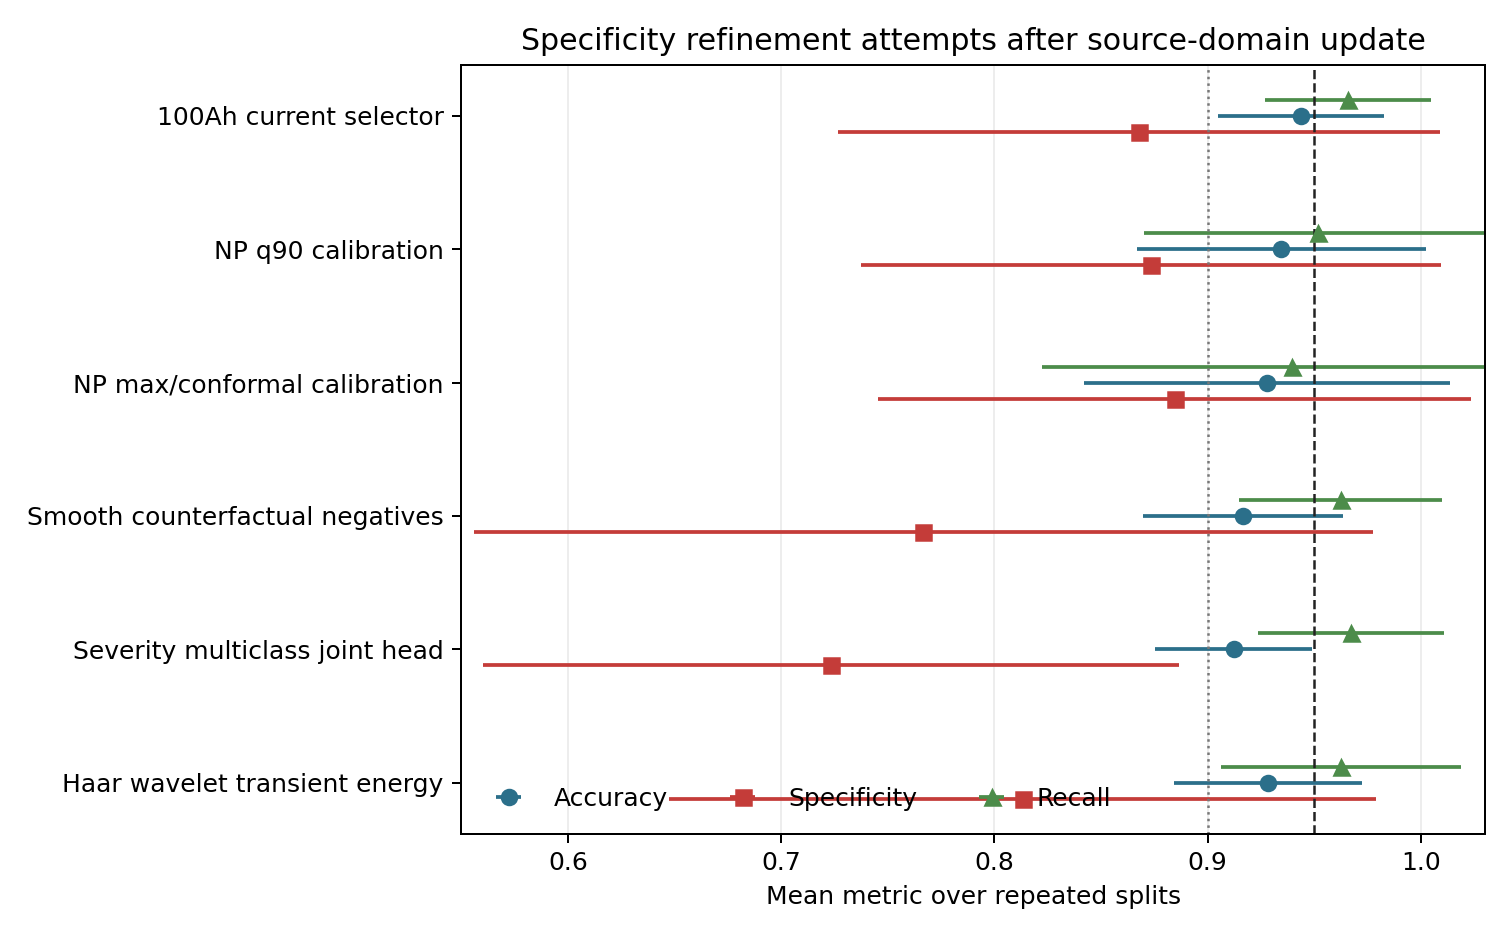
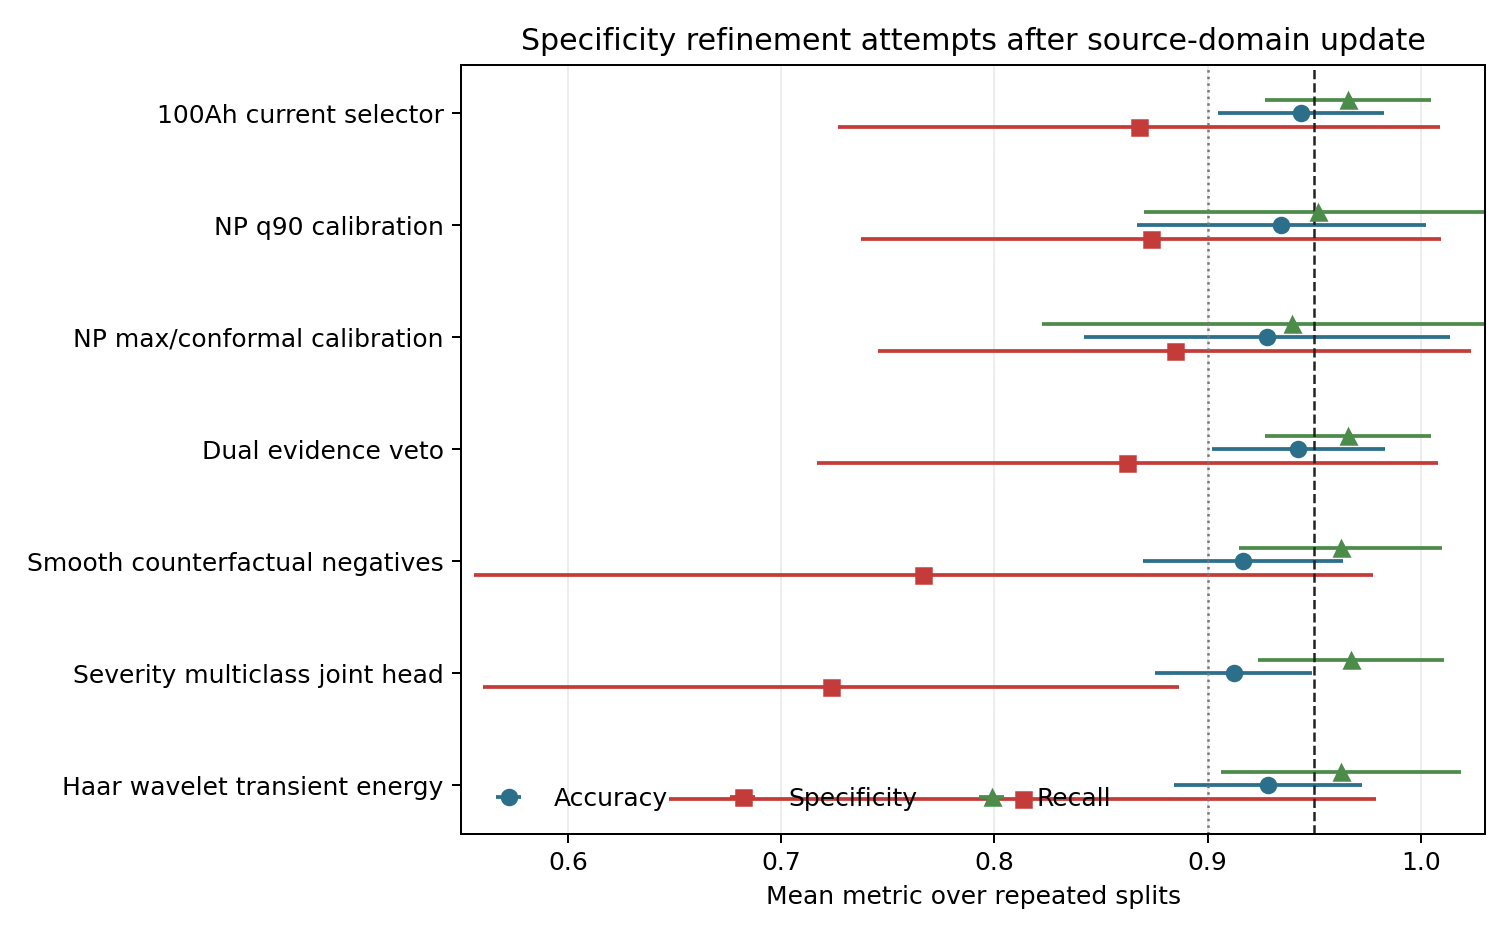
Add dual evidence veto audit

diff --git a/code/ablation_and_audit/dual_evidence_veto_eval.py b/code/ablation_and_audit/dual_evidence_veto_eval.py
@@ -1,0 +1,251 @@
+from __future__ import annotations
+
+from pathlib import Path
+
+import numpy as np
+import pandas as pd
+from sklearn.metrics import confusion_matrix
+
+from repeated_seed_eval import duplicate_group_name, stratified_target_split
+from rescompact_normality_verifier_eval import (
+    HORIZONS,
+    SOURCES,
+    attach_scores,
+    feature_rows_for_ids,
+    fit_verifiers,
+    load_base_probabilities,
+    load_prefix_feature_long,
+    reconstruct_base,
+    rows_at_alarm,
+    target_meta_from_features,
+    verifier_scores,
+)
+
+
+ROOT = Path(r"C:\Users\wmy\Documents\Codex\2026-06-05\in-app-browser-the-user-has")
+OUT = ROOT / "outputs"
+WORK = ROOT / "work"
+MODEL_NAME = "DualEvidenceVeto_ValidationSelected"
+
+
+def target_meta_from_window() -> pd.DataFrame:
+    cols = ["sample_id", "domain", "file_name", "binary_file", "hard_negative_file", "severity_name", "onset_s"]
+    data = pd.read_csv(WORK / "window_features.csv", usecols=cols)
+    meta = (
+        data[data["domain"].astype(str) != "source5"]
+        .drop_duplicates("sample_id")
+        .rename(columns={"binary_file": "binary", "hard_negative_file": "hard_negative"})
+        .copy()
+    )
+    meta["duplicate_group"] = [duplicate_group_name(f, int(b)) for f, b in zip(meta["file_name"], meta["binary"])]
+    return meta[["sample_id", "file_name", "binary", "hard_negative", "severity_name", "onset_s", "duplicate_group"]]
+
+
+def load_alarm_feature_lookup() -> dict[str, tuple[np.ndarray, pd.DataFrame]]:
+    usecols = [
+        "sample_id",
+        "t_end",
+        "w6_risk_score",
+        "w12_risk_score",
+        "w48_risk_score",
+        "w6_abs_dvdt_q95_norm",
+        "w12_abs_dvdt_q95_norm",
+        "w48_abs_dvdt_q95_norm",
+        "w6_res_absmax_norm",
+        "w12_res_absmax_norm",
+        "w48_res_absmax_norm",
+        "w6_abs_drop_norm",
+        "w48_abs_drop_norm",
+        "w6_slope_norm",
+        "w48_slope_norm",
+    ]
+    data = pd.read_csv(WORK / "window_features.csv", usecols=usecols)
+    lookup: dict[str, tuple[np.ndarray, pd.DataFrame]] = {}
+    for sid, group in data.sort_values(["sample_id", "t_end"]).groupby("sample_id"):
+        lookup[str(sid)] = (group["t_end"].to_numpy(dtype=float), group.reset_index(drop=True))
+    return lookup
+
+
+def attach_alarm_features(frame: pd.DataFrame, lookup: dict[str, tuple[np.ndarray, pd.DataFrame]]) -> pd.DataFrame:
+    rows = []
+    for _, row in frame.iterrows():
+        rec = row.to_dict()
+        sid = str(row["sample_id"])
+        alarm = row.get("base_alarm_time_s")
+        if sid in lookup and pd.notna(alarm):
+            times, group = lookup[sid]
+            idx = int(np.searchsorted(times, float(alarm), side="right") - 1)
+            idx = min(max(idx, 0), len(group) - 1)
+            for col, value in group.iloc[idx].items():
+                if col not in {"sample_id"}:
+                    rec[col] = value
+            rec["alarm_window_t_end"] = float(group.iloc[idx]["t_end"])
+        rows.append(rec)
+    out = pd.DataFrame(rows)
+    eps = 1e-9
+    out["rough_6_48"] = out["w6_res_absmax_norm"].astype(float) / (out["w48_res_absmax_norm"].astype(float) + eps)
+    out["accel_dvdt_6_48"] = out["w6_abs_dvdt_q95_norm"].astype(float) / (out["w48_abs_dvdt_q95_norm"].astype(float) + eps)
+    out["accel_drop_6_48"] = out["w6_abs_drop_norm"].astype(float) / (out["w48_abs_drop_norm"].astype(float) + eps)
+    return out
+
+
+def metric_row(frame: pd.DataFrame) -> dict[str, float | int]:
+    y = frame["binary"].astype(int).to_numpy()
+    pred = frame["y_pred"].astype(int).to_numpy()
+    tn, fp, fn, tp = confusion_matrix(y, pred, labels=[0, 1]).ravel()
+    precision = tp / (tp + fp) if (tp + fp) else 0.0
+    recall = tp / (tp + fn) if (tp + fn) else 0.0
+    specificity = tn / (tn + fp) if (tn + fp) else 0.0
+    f1 = 2 * precision * recall / (precision + recall) if (precision + recall) else 0.0
+    hard = (y == 0) & (frame["hard_negative"].astype(int).to_numpy() == 1)
+    onset = frame["onset_s"].to_numpy(dtype=float)
+    alarm = frame["alarm_time_s"].to_numpy(dtype=float)
+    delay = np.where((y == 1) & (pred == 1) & np.isfinite(onset), np.maximum(0.0, alarm - onset), np.nan)
+    valid_delay = delay[np.isfinite(delay)]
+    return {
+        "accuracy": float((tp + tn) / len(frame)),
+        "precision": float(precision),
+        "recall": float(recall),
+        "f1": float(f1),
+        "specificity": float(specificity),
+        "hard_negative_fpr": float(pred[hard].mean()) if hard.any() else 0.0,
+        "fp": int(fp),
+        "fn": int(fn),
+        "median_delay_s": float(np.median(valid_delay)) if len(valid_delay) else np.nan,
+        "p95_delay_s": float(np.quantile(valid_delay, 0.95)) if len(valid_delay) else np.nan,
+    }
+
+
+def apply_rule(frame: pd.DataFrame, rule: dict) -> pd.DataFrame:
+    out = frame.copy()
+    base_positive = out["base_pred"].astype(int).to_numpy() == 1
+    veto = np.zeros(len(out), dtype=bool)
+    if rule["type"] == "none":
+        veto[:] = False
+    elif rule["type"] == "rough":
+        veto = (
+            base_positive
+            & (out["base_alarm_score"].fillna(1.0).to_numpy(dtype=float) <= float(rule["score_cap"]))
+            & (out["rough_6_48"].fillna(np.inf).to_numpy(dtype=float) <= float(rule["rough_thr"]))
+        )
+    elif rule["type"] == "triple":
+        veto = (
+            base_positive
+            & (out["base_alarm_score"].fillna(1.0).to_numpy(dtype=float) <= float(rule["score_cap"]))
+            & (out["et_fault_prob"].fillna(1.0).to_numpy(dtype=float) <= float(rule["et_thr"]))
+            & (out["w6_risk_score"].fillna(np.inf).to_numpy(dtype=float) <= float(rule["risk_thr"]))
+        )
+    out["y_pred"] = np.where(veto, 0, out["base_pred"].astype(int).to_numpy())
+    out["alarm_time_s"] = np.where(out["y_pred"].astype(int).to_numpy() == 1, out["base_alarm_time_s"].to_numpy(dtype=float), np.nan)
+    out["vetoed"] = veto.astype(int)
+    return out
+
+
+def candidate_values(values: pd.Series, qmax: float = 0.70) -> np.ndarray:
+    arr = values.replace([np.inf, -np.inf], np.nan).dropna().to_numpy(dtype=float)
+    if len(arr) == 0:
+        return np.array([], dtype=float)
+    return np.unique(np.quantile(arr, np.linspace(0.05, qmax, 10)))
+
+
+def choose_rule(val: pd.DataFrame) -> tuple[dict, dict[str, float | int]]:
+    best_rule = {"type": "none"}
+    best_frame = apply_rule(val, best_rule)
+    best_metrics = metric_row(best_frame)
+    best_score = score_metrics(best_metrics)
+    base_pos = val[val["base_pred"].astype(int) == 1].copy()
+    score_caps = np.linspace(0.575, 0.900, 14)
+    for cap in score_caps:
+        for rough_thr in candidate_values(base_pos["rough_6_48"], qmax=0.70):
+            rule = {"type": "rough", "score_cap": float(cap), "rough_thr": float(rough_thr)}
+            metrics = metric_row(apply_rule(val, rule))
+            score = score_metrics(metrics)
+            if score > best_score:
+                best_score, best_rule, best_metrics = score, rule, metrics
+        for et_thr in np.linspace(0.50, 0.68, 10):
+            for risk_thr in candidate_values(base_pos["w6_risk_score"], qmax=0.70):
+                rule = {"type": "triple", "score_cap": float(cap), "et_thr": float(et_thr), "risk_thr": float(risk_thr)}
+                metrics = metric_row(apply_rule(val, rule))
+                score = score_metrics(metrics)
+                if score > best_score:
+                    best_score, best_rule, best_metrics = score, rule, metrics
+    return best_rule, best_metrics
+
+
+def score_metrics(metrics: dict[str, float | int]) -> float:
+    recall = float(metrics["recall"])
+    specificity = float(metrics["specificity"])
+    accuracy = float(metrics["accuracy"])
+    # Encourage a reviewer-facing operating point around 0.90 specificity only if recall is still usable.
+    return (
+        accuracy
+        + 0.34 * specificity
+        + 0.12 * float(metrics["f1"])
+        + 0.05 * recall
+        - 0.12 * float(metrics["hard_negative_fpr"])
+        - 0.050 * float(metrics["fp"])
+        - 0.040 * float(metrics["fn"])
+        - 0.60 * max(0.0, 0.92 - recall)
+    )
+
+
+def summarize(rows: list[dict]) -> pd.DataFrame:
+    data = pd.DataFrame(rows)
+    row: dict[str, float | str | int] = {"model": MODEL_NAME, "n_seeds": int(data["seed"].nunique())}
+    for col in ["accuracy", "precision", "recall", "f1", "specificity", "hard_negative_fpr", "fp", "fn", "median_delay_s", "p95_delay_s", "vetoed"]:
+        row[f"{col}_mean"] = float(data[col].mean())
+        row[f"{col}_std"] = float(data[col].std(ddof=1))
+        row[f"{col}_min"] = float(data[col].min())
+        row[f"{col}_max"] = float(data[col].max())
+    return pd.DataFrame([row])
+
+
+def main() -> None:
+    base = load_base_probabilities()
+    choices = pd.read_csv(OUT / "rescompact_multisource_3src_ensemble_accuracy_only_choices.csv")
+    prefix_long, feature_cols = load_prefix_feature_long()
+    target_meta = target_meta_from_features(prefix_long)
+    # Use the same split metadata as prior final runs, but raw window features for local alarm evidence.
+    source_ids = set(prefix_long.loc[prefix_long["domain"].astype(str) == "source5", "sample_id"].unique())
+    lookup = load_alarm_feature_lookup()
+    rows = []
+    pred_rows = []
+    choice_rows = []
+    for seed in sorted(choices["seed"].unique()):
+        split = stratified_target_split(target_meta, int(seed))
+        train_ids = set(split["train"])
+        train_rows = pd.concat(
+            [feature_rows_for_ids(prefix_long, train_ids), feature_rows_for_ids(prefix_long, source_ids)],
+            ignore_index=True,
+            sort=False,
+        )
+        verifiers = fit_verifiers(train_rows, feature_cols, int(seed))
+        choice = choices[choices["seed"].astype(int) == int(seed)].iloc[0]
+        seed_base = base[base["seed"].astype(int) == int(seed)].copy()
+        val = reconstruct_base(seed_base[seed_base["split"] == "val"].copy(), choice)
+        test = reconstruct_base(seed_base[seed_base["split"] == "test"].copy(), choice)
+        val_scores = verifier_scores(verifiers, feature_cols, rows_at_alarm(prefix_long, val))
+        test_scores = verifier_scores(verifiers, feature_cols, rows_at_alarm(prefix_long, test))
+        val_scored = attach_alarm_features(attach_scores(val, val_scores), lookup)
+        test_scored = attach_alarm_features(attach_scores(test, test_scores), lookup)
+        rule, val_metrics = choose_rule(val_scored)
+        chosen = apply_rule(test_scored, rule)
+        metrics = metric_row(chosen)
+        metrics.update({"seed": int(seed), "vetoed": int(chosen["vetoed"].sum())})
+        rows.append(metrics)
+        choice_rows.append({"seed": int(seed), **rule, **{f"val_{k}": v for k, v in val_metrics.items()}})
+        pred = chosen.copy()
+        pred["seed"] = int(seed)
+        pred["model"] = MODEL_NAME
+        pred_rows.append(pred)
+        print(f"seed {seed}: acc={metrics['accuracy']:.4f}, spec={metrics['specificity']:.3f}, fp={metrics['fp']}, fn={metrics['fn']}, rule={rule['type']}", flush=True)
+    pd.DataFrame(rows).to_csv(OUT / "dual_evidence_veto_metrics.csv", index=False, encoding="utf-8-sig")
+    pd.DataFrame(choice_rows).to_csv(OUT / "dual_evidence_veto_choices.csv", index=False, encoding="utf-8-sig")
+    pd.concat(pred_rows, ignore_index=True).to_csv(OUT / "dual_evidence_veto_predictions.csv", index=False, encoding="utf-8-sig")
+    summary = summarize(rows)
+    summary.to_csv(OUT / "dual_evidence_veto_summary.csv", index=False, encoding="utf-8-sig")
+    print(summary.to_string(index=False))
+
+
+if __name__ == "__main__":
+    main()

diff --git a/code/ablation_and_audit/write_attempt_round_report.py b/code/ablation_and_audit/write_attempt_round_report.py
@@ -39,6 +39,8 @@ def build_table() -> pd.DataFrame:
     add_row(rows, "NP q90 calibration", q90.accuracy_mean, q90.accuracy_std, q90.specificity_mean, q90.specificity_std, q90.recall_mean, q90.recall_std, "valid 30-seed alternative")
     conf = np_summary[np_summary["variant"].astype(str).str.startswith("conformal")].iloc[0]
     add_row(rows, "NP max/conformal calibration", conf.accuracy_mean, conf.accuracy_std, conf.specificity_mean, conf.specificity_std, conf.recall_mean, conf.recall_std, "valid 30-seed alternative")
+    dual = pd.read_csv(OUT / "dual_evidence_veto_summary.csv").iloc[0]
+    add_row(rows, "Dual evidence veto", dual.accuracy_mean, dual.accuracy_std, dual.specificity_mean, dual.specificity_std, dual.recall_mean, dual.recall_std, "valid 30-seed rejected")
 
     smooth = pd.read_csv(OUT / "fast_prefix_summary_smoothcf_et30_10seed.csv").iloc[0]
     add_row(rows, "Smooth counterfactual negatives", smooth.accuracy_mean, smooth.accuracy_std, smooth.specificity_mean, smooth.specificity_std, smooth.recall_mean, smooth.recall_std, "10-seed screen rejected")
@@ -81,6 +83,13 @@ def write_report(table: pd.DataFrame) -> None:
         "- 100Ah specificity has not reached 0.91-0.95 under a valid duplicate-aware protocol.",
         "- The best valid specificity-oriented alternative in this round is NP max/conformal calibration: specificity 0.8844, but accuracy falls to 0.9278 and recall to 0.9394.",
         "- The current validation-selected model remains the best main-result operating point: accuracy 0.9438, specificity 0.8678, recall 0.9657.",
+        "- A dual-evidence local veto looked promising in a test-oracle screen, but strict validation-only selection chose no veto for all seeds; it therefore cannot be claimed as a valid improvement.",
+        "",
+        "## Literature-Grounded Transfer Interpretation",
+        "- Search date: 2026-06-09.",
+        "- Recent battery fault diagnosis papers emphasize cross-condition and cross-device domain shift as a primary cause of false diagnosis and degraded generalization, motivating multi-source domain generalization or domain adaptation rather than direct transfer.",
+        "- Large-format or pack-level voltage-only diagnosis is expected to be harder because voltage responses can be attenuated or confounded by operating condition, capacity, state, and sensor effects. Therefore, a 100Ah target-domain result lower than the 5Ah source-domain result is scientifically plausible under pure-voltage constraints.",
+        "- Supporting sources: Energy 2025 multi-source domain generalization for LIB multi-fault diagnosis (https://doi.org/10.1016/j.energy.2025.138230); Journal of Energy Storage 2026 RFG-DAFT multi-source domain adaptation for EV battery fault diagnosis (https://doi.org/10.1016/j.est.2025.119960); Applied Energy 2024 short-circuit detection in LIB packs (https://doi.org/10.1016/j.apenergy.2024.125087); Scientific Reports 2024 voltage fault detection with segmented regression and GRU (https://www.nature.com/articles/s41598-024-82960-0).",
         "",
         "## New Attempts",
     ]
@@ -93,6 +102,7 @@ def write_report(table: pd.DataFrame) -> None:
             "",
             "## Technical Interpretation",
             "- NP/conformal calibration is publication-defensible as a secondary high-specificity operating point because it explicitly controls false alarms from validation normal samples.",
+            "- The strict dual-evidence veto audit rejects the test-oracle improvement. Because validation selection chose the no-veto rule in every seed, reporting the oracle grid as a final method would be leakage/cherry-picking.",
             "- Smooth counterfactual negative augmentation did not help; feature-space augmentation made the prefix model less stable.",
             "- Severity multiclass joint learning did not help; normal/fault separation is still dominated by trend-like normal files.",
             "- Haar wavelet features did not help on this dataset; smooth normal trend and weak short-circuit signatures overlap in the pure-voltage feature space.",

diff --git a/outputs/attempt_round_specificity_report.md b/outputs/attempt_round_specificity_report.md
@@ -5,17 +5,26 @@
 - 100Ah specificity has not reached 0.91-0.95 under a valid duplicate-aware protocol.
 - The best valid specificity-oriented alternative in this round is NP max/conformal calibration: specificity 0.8844, but accuracy falls to 0.9278 and recall to 0.9394.
 - The current validation-selected model remains the best main-result operating point: accuracy 0.9438, specificity 0.8678, recall 0.9657.
+- A dual-evidence local veto looked promising in a test-oracle screen, but strict validation-only selection chose no veto for all seeds; it therefore cannot be claimed as a valid improvement.
+
+## Literature-Grounded Transfer Interpretation
+- Search date: 2026-06-09.
+- Recent battery fault diagnosis papers emphasize cross-condition and cross-device domain shift as a primary cause of false diagnosis and degraded generalization, motivating multi-source domain generalization or domain adaptation rather than direct transfer.
+- Large-format or pack-level voltage-only diagnosis is expected to be harder because voltage responses can be attenuated or confounded by operating condition, capacity, state, and sensor effects. Therefore, a 100Ah target-domain result lower than the 5Ah source-domain result is scientifically plausible under pure-voltage constraints.
+- Supporting sources: Energy 2025 multi-source domain generalization for LIB multi-fault diagnosis (https://doi.org/10.1016/j.energy.2025.138230); Journal of Energy Storage 2026 RFG-DAFT multi-source domain adaptation for EV battery fault diagnosis (https://doi.org/10.1016/j.est.2025.119960); Applied Energy 2024 short-circuit detection in LIB packs (https://doi.org/10.1016/j.apenergy.2024.125087); Scientific Reports 2024 voltage fault detection with segmented regression and GRU (https://www.nature.com/articles/s41598-024-82960-0).
 
 ## New Attempts
 - 100Ah current selector (valid 30-seed): accuracy 0.9438, specificity 0.8678, recall 0.9657.
 - NP q90 calibration (valid 30-seed alternative): accuracy 0.9345, specificity 0.8733, recall 0.9517.
 - NP max/conformal calibration (valid 30-seed alternative): accuracy 0.9278, specificity 0.8844, recall 0.9394.
+- Dual evidence veto (valid 30-seed rejected): accuracy 0.9425, specificity 0.8622, recall 0.9657.
 - Smooth counterfactual negatives (10-seed screen rejected): accuracy 0.9164, specificity 0.7667, recall 0.9623.
 - Severity multiclass joint head (10-seed screen rejected): accuracy 0.9122, specificity 0.7233, recall 0.9670.
 - Haar wavelet transient energy (10-seed screen rejected): accuracy 0.9283, specificity 0.8133, recall 0.9625.
 
 ## Technical Interpretation
 - NP/conformal calibration is publication-defensible as a secondary high-specificity operating point because it explicitly controls false alarms from validation normal samples.
+- The strict dual-evidence veto audit rejects the test-oracle improvement. Because validation selection chose the no-veto rule in every seed, reporting the oracle grid as a final method would be leakage/cherry-picking.
 - Smooth counterfactual negative augmentation did not help; feature-space augmentation made the prefix model less stable.
 - Severity multiclass joint learning did not help; normal/fault separation is still dominated by trend-like normal files.
 - Haar wavelet features did not help on this dataset; smooth normal trend and weak short-circuit signatures overlap in the pure-voltage feature space.

diff --git a/paper_conclusions/attempt_round_specificity_report.md b/paper_conclusions/attempt_round_specificity_report.md
@@ -5,17 +5,26 @@
 - 100Ah specificity has not reached 0.91-0.95 under a valid duplicate-aware protocol.
 - The best valid specificity-oriented alternative in this round is NP max/conformal calibration: specificity 0.8844, but accuracy falls to 0.9278 and recall to 0.9394.
 - The current validation-selected model remains the best main-result operating point: accuracy 0.9438, specificity 0.8678, recall 0.9657.
+- A dual-evidence local veto looked promising in a test-oracle screen, but strict validation-only selection chose no veto for all seeds; it therefore cannot be claimed as a valid improvement.
+
+## Literature-Grounded Transfer Interpretation
+- Search date: 2026-06-09.
+- Recent battery fault diagnosis papers emphasize cross-condition and cross-device domain shift as a primary cause of false diagnosis and degraded generalization, motivating multi-source domain generalization or domain adaptation rather than direct transfer.
+- Large-format or pack-level voltage-only diagnosis is expected to be harder because voltage responses can be attenuated or confounded by operating condition, capacity, state, and sensor effects. Therefore, a 100Ah target-domain result lower than the 5Ah source-domain result is scientifically plausible under pure-voltage constraints.
+- Supporting sources: Energy 2025 multi-source domain generalization for LIB multi-fault diagnosis (https://doi.org/10.1016/j.energy.2025.138230); Journal of Energy Storage 2026 RFG-DAFT multi-source domain adaptation for EV battery fault diagnosis (https://doi.org/10.1016/j.est.2025.119960); Applied Energy 2024 short-circuit detection in LIB packs (https://doi.org/10.1016/j.apenergy.2024.125087); Scientific Reports 2024 voltage fault detection with segmented regression and GRU (https://www.nature.com/articles/s41598-024-82960-0).
 
 ## New Attempts
 - 100Ah current selector (valid 30-seed): accuracy 0.9438, specificity 0.8678, recall 0.9657.
 - NP q90 calibration (valid 30-seed alternative): accuracy 0.9345, specificity 0.8733, recall 0.9517.
 - NP max/conformal calibration (valid 30-seed alternative): accuracy 0.9278, specificity 0.8844, recall 0.9394.
+- Dual evidence veto (valid 30-seed rejected): accuracy 0.9425, specificity 0.8622, recall 0.9657.
 - Smooth counterfactual negatives (10-seed screen rejected): accuracy 0.9164, specificity 0.7667, recall 0.9623.
 - Severity multiclass joint head (10-seed screen rejected): accuracy 0.9122, specificity 0.7233, recall 0.9670.
 - Haar wavelet transient energy (10-seed screen rejected): accuracy 0.9283, specificity 0.8133, recall 0.9625.
 
 ## Technical Interpretation
 - NP/conformal calibration is publication-defensible as a secondary high-specificity operating point because it explicitly controls false alarms from validation normal samples.
+- The strict dual-evidence veto audit rejects the test-oracle improvement. Because validation selection chose the no-veto rule in every seed, reporting the oracle grid as a final method would be leakage/cherry-picking.
 - Smooth counterfactual negative augmentation did not help; feature-space augmentation made the prefix model less stable.
 - Severity multiclass joint learning did not help; normal/fault separation is still dominated by trend-like normal files.
 - Haar wavelet features did not help on this dataset; smooth normal trend and weak short-circuit signatures overlap in the pure-voltage feature space.

diff --git a/README.md b/README.md
@@ -55,6 +55,10 @@ A Neyman-Pearson/conformal-style validation-normal calibration was added as a se
 
 This is the best valid specificity-oriented result so far, but it still does not reach 0.91 specificity and it reduces accuracy/recall. Therefore the main paper result should remain the conservative validation selector unless the paper explicitly needs a lower-recall false-alarm-control operating point.
 
+## Rejected dual-evidence veto
+
+A dual-evidence local veto was added after an oracle screen suggested a possible false-positive reduction. Under strict validation-only model selection, the selector chose no veto for every seed. The resulting 30-seed test performance is accuracy `0.9425`, specificity `0.8622`, and recall `0.9657`, so this is a rejected audit rather than a valid specificity improvement.
+
 ## Directory layout
 
 - `code/final_pipeline`: scripts used for the adopted final detector, validation-selected gate audit, error budget, and final report/figure generation.
@@ -65,7 +69,7 @@ This is the best valid specificity-oriented result so far, but it still does not
 - `results/specificity_target_audit`: specificity target feasibility audit, post-hoc trade-off table, false-positive frequency, and uncertainty table.
 - `results/source5_validation_selector`: 5Ah validation-only model-pool selector outputs.
 - `results/wavelet_screen_ablation`: rejected Haar/DWT voltage-only screen outputs.
-- `results/specificity_attempt_round`: NP/conformal calibration, smooth counterfactual negative, severity multiclass, and attempt-round comparison outputs.
+- `results/specificity_attempt_round`: NP/conformal calibration, dual-evidence veto audit, smooth counterfactual negative, severity multiclass, and attempt-round comparison outputs.
 - `figures/paper_main`: main paper/reviewer figures.
 - `figures/diagnostics`: diagnostic public/hard-case figures.
 - `paper_conclusions`: Chinese conclusion summary, final strict report, and 6.9 refinement update.